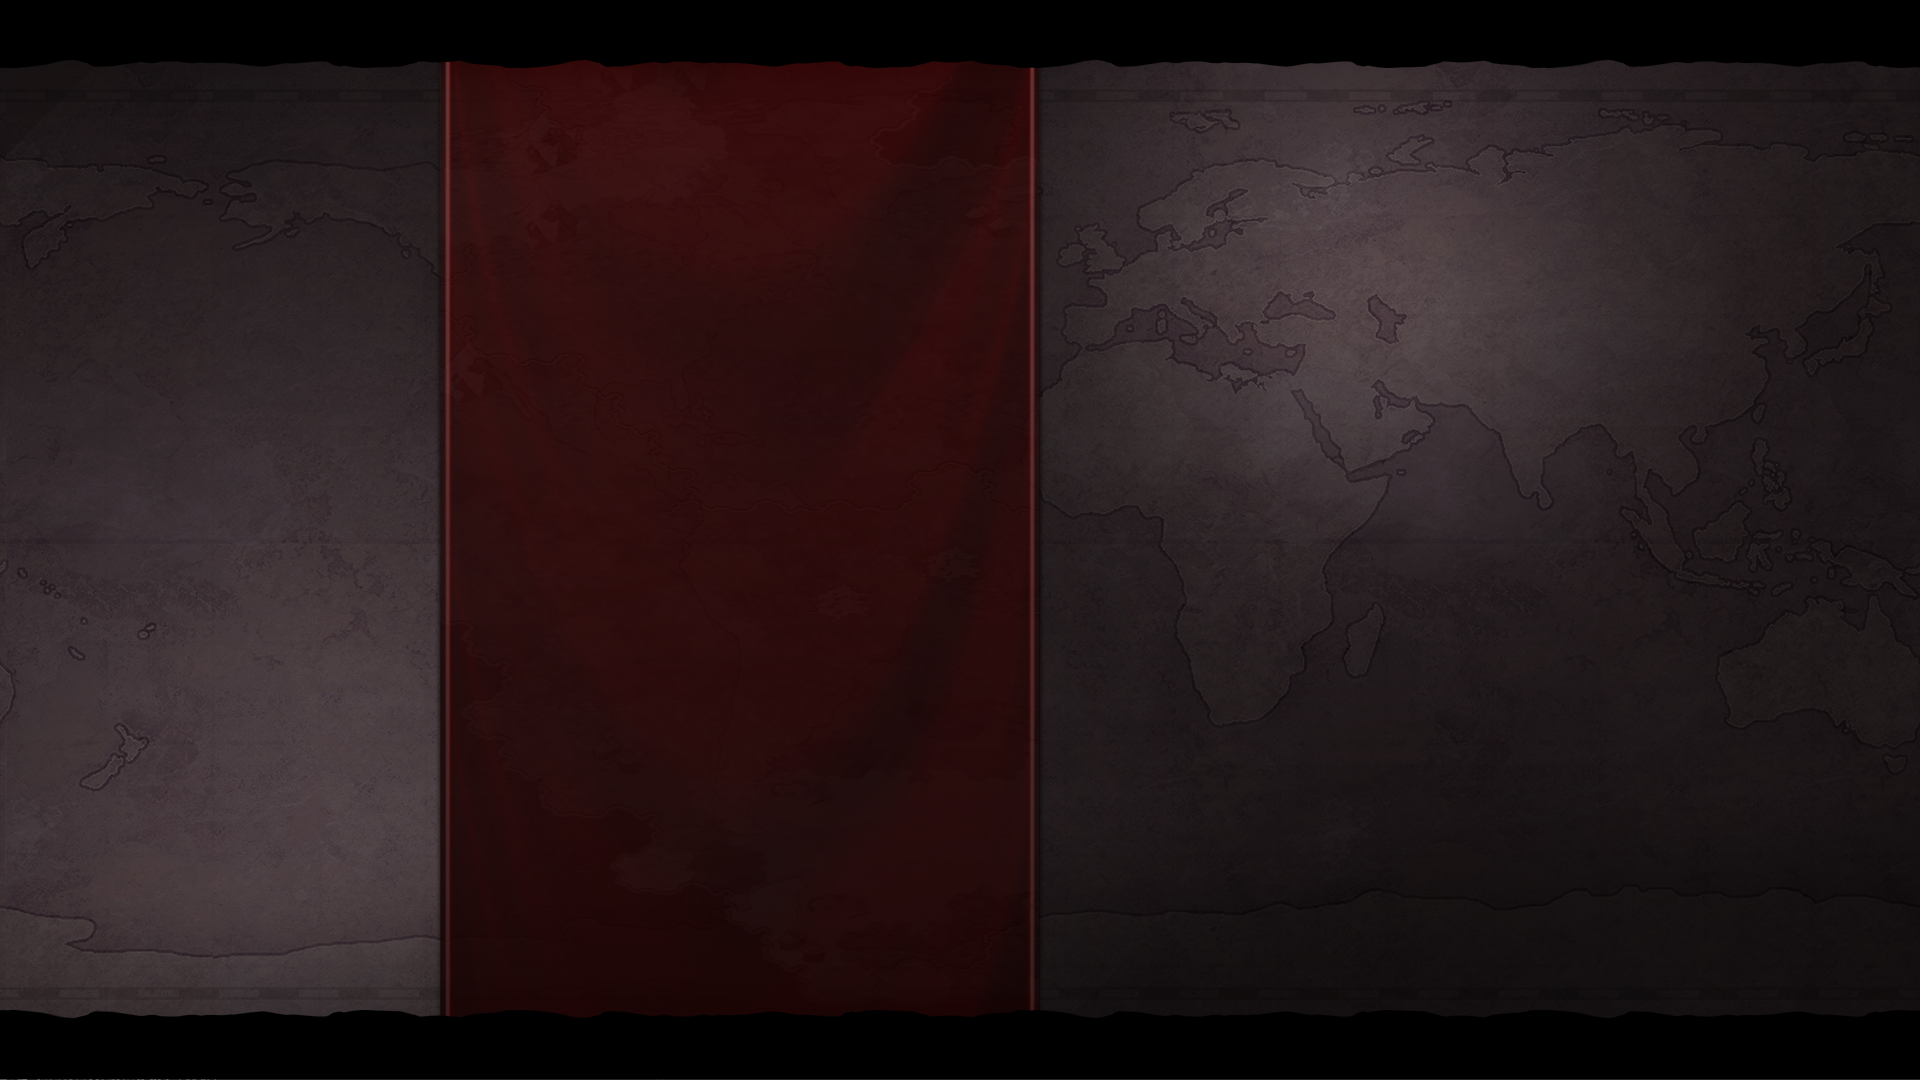
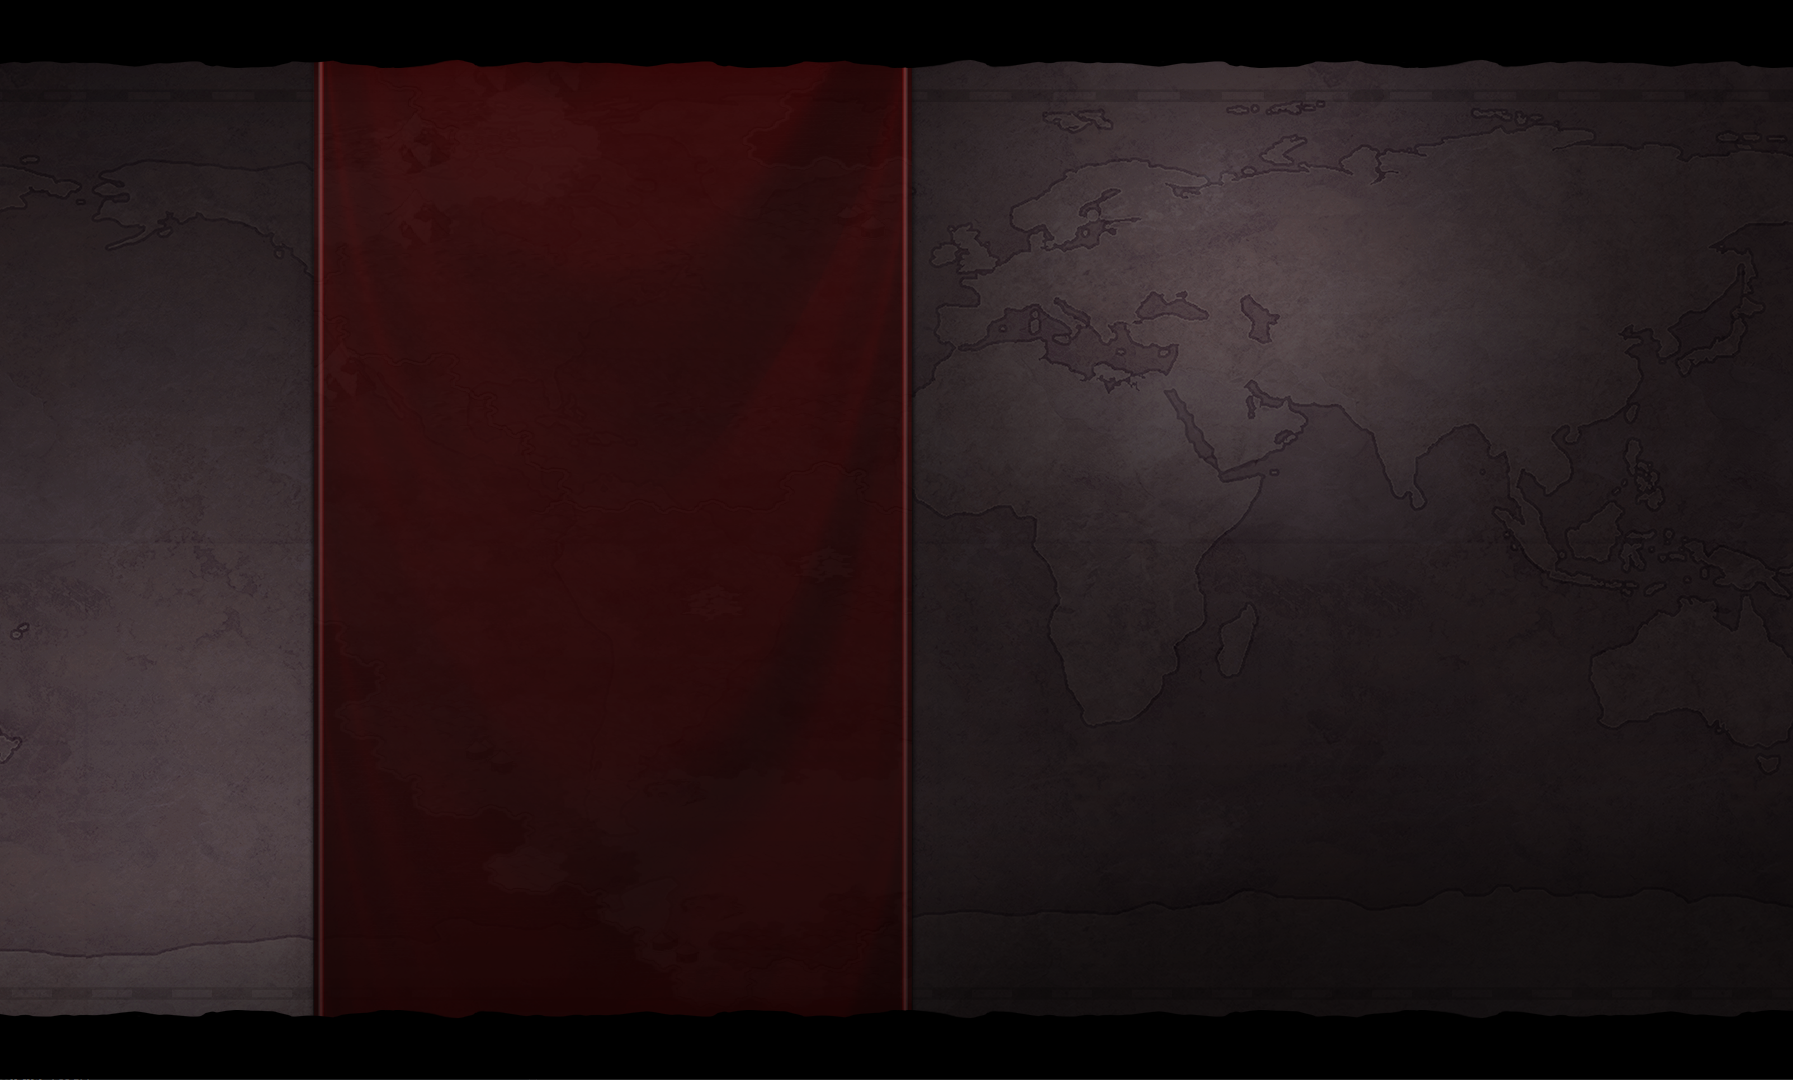
fixing backgrpunds and setting map in full screen

diff --git a/CivilizationGame/src/main/resources/sut/civilization/StyleSheet/ProfileMenu.css b/CivilizationGame/src/main/resources/sut/civilization/StyleSheet/ProfileMenu.css
@@ -1,8 +1,13 @@
 .root{
     -fx-background-repeat: no-repeat;
     -fx-background-position: center;
-    -fx-background-size: contain;
-    -fx-background-image: url("/sut/civilization/Images/BackGround/backGround1.png");
+    -fx-background-size: cover;
+    -fx-background-image: url("/sut/civilization/Images/BackGround/backGround6.jpg");
+}
+
+Label {
+    -fx-font-family: "Segoe Print";
+    -fx-font-size: 13;
 }
 
 Button:hover{
@@ -23,8 +28,16 @@ Button {
     -fx-background-color: transparent;
     -fx-cursor: hand;
     -fx-border-color: #0033ff;
-    -fx-text-fill: rgb(0, 22, 42);
+    -fx-text-fill: #0033ff;
     -fx-font-size: 20;
+}
+
+#backButton:hover{
+    -fx-background-color: #00504d;
+    -fx-cursor: hand;
+    -fx-border-color: #ffffff;
+    -fx-text-fill: rgb(255, 255, 255);
+    -fx-font-size: 10;
 }
 
 #backButton{
@@ -34,7 +47,7 @@ Button {
     -fx-background-color: transparent;
     -fx-cursor: hand;
     -fx-border-color: aqua;
-    -fx-text-fill: rgb(0, 22, 42);
+    -fx-text-fill: aqua;
     -fx-font-size: 10;
 }
 
@@ -46,15 +59,18 @@ Button {
     -fx-background-color: transparent;
     -fx-padding: 0px 0px 8px 10px;
     -fx-font-size: 13;
+    -fx-cursor: hand;
 
 }
 
 #informationBox{
-    -fx-border-color: black;
+    -fx-background-radius: 10;
+    -fx-background-color: rgba(255, 255, 255, 0.3);
+    -fx-border-color: #310000;
     -fx-border-radius: 10;
     -fx-text-fill: #310000;
     -fx-max-height: 400;
-
+    -fx-font-size: 30;
 }
 
 PasswordField{
@@ -81,24 +97,23 @@ TextField{
     -fx-border-color: transparent;
     -fx-font-weight: bold;
 }
-.tab{
-    -fx-cursor: hand;
 
-}
 .tab-pane *.tab-header-area *.tab-header-background {
-    -fx-background-color:transparent;
+    -fx-background-radius: 30;
+    -fx-background-color: rgba(255, 255, 255, 0.3);
     -fx-alignment: center;
 }
 
-
-Label {
-    -fx-font-family: "Segoe Print";
-    -fx-font-size: 13;
-}
-
 #title{
+    -fx-background-radius: 20;
+    -fx-border-radius: 20;
+    -fx-min-width: 200;
+    -fx-border-color: black;
+    -fx-background-color: rgba(255, 255, 255, 0.3);
     -fx-font-weight: bolder;
-    -fx-font-size: 20;
+    -fx-alignment: center;
+    -fx-text-fill: black;
+    -fx-font-size: 40;
 }
 
 ImageView{
@@ -108,4 +123,18 @@ ImageView{
 
 .informationText {
     -fx-font-weight: bold;
+    -fx-font-size: 20;
+}
+
+.ScrollPane .viewport {
+    -fx-background-color: transparent;
+}
+
+.ScrollPane{
+    -fx-background-color: transparent;
+}
+
+.Hbox{
+
+    -fx-alignment: center;
 }

diff --git a/CivilizationGame/src/main/resources/sut/civilization/StyleSheet/MainMenu.css b/CivilizationGame/src/main/resources/sut/civilization/StyleSheet/MainMenu.css
@@ -1,8 +1,8 @@
 .root{
     -fx-background-repeat: no-repeat;
     -fx-background-position: center;
-    -fx-background-size: contain;
-    -fx-background-image: url("/sut/civilization/Images/BackGround/backGround1.png");
+    -fx-background-size: cover;
+    -fx-background-image: url("/sut/civilization/Images/BackGround/backGround4.png");
 }
 
 Button:hover{
@@ -18,7 +18,8 @@ Button {
     -fx-pref-width: 200;
     -fx-pref-height: 30;
     -fx-border-radius: 10;
-    -fx-background-color: none;
+    -fx-background-radius: 10;
+    -fx-background-color: rgba(255, 154, 154, 0.08);
     -fx-font-family: "Comic Sans MS";
     -fx-cursor: hand;
     -fx-border-color: darkred;

diff --git a/CivilizationGame/src/main/resources/sut/civilization/StyleSheet/ScoreBoard.css b/CivilizationGame/src/main/resources/sut/civilization/StyleSheet/ScoreBoard.css
@@ -1,8 +1,8 @@
 .root{
     -fx-background-repeat: no-repeat;
-    -fx-background-position: center;
-    -fx-background-size: contain;
-    -fx-background-image: url("/sut/civilization/Images/BackGround/backGround1.png");
+    -fx-background-position: top;
+    -fx-background-size: cover;
+    -fx-background-image: url("/sut/civilization/Images/BackGround/background5.jpg");
 }
 
 .numberIndicator{
@@ -18,6 +18,8 @@ Label {
 }
 
 .informationContainer{
+    -fx-background-radius: 20;
+    -fx-background-color: rgba(255, 255, 255, 0.5);
     -fx-border-color: black;
     -fx-min-height: 60;
     -fx-border-radius: 20;

diff --git a/CivilizationGame/src/main/resources/sut/civilization/StyleSheet/ChatMenu.css b/CivilizationGame/src/main/resources/sut/civilization/StyleSheet/ChatMenu.css
@@ -1,9 +1,3 @@
-.root{
-    -fx-background-repeat: no-repeat;
-    -fx-background-position: center;
-    -fx-background-size: contain;
-    -fx-background-image: url("/sut/civilization/Images/BackGround/backGround1.png");
-}
 
 Button {
     -fx-background-color: white;

diff --git a/CivilizationGame/src/main/resources/sut/civilization/StyleSheet/LoginMenu.css b/CivilizationGame/src/main/resources/sut/civilization/StyleSheet/LoginMenu.css
@@ -1,7 +1,7 @@
 .root{
     -fx-background-repeat: no-repeat;
     -fx-background-position: center;
-    -fx-background-size: contain;
+    -fx-background-size: auto;
     -fx-background-image: url("/sut/civilization/Images/BackGround/civ_background.png");
 }
 

diff --git a/CivilizationGame/src/main/java/sut/civilization/View/Graphical/ProfileController.java b/CivilizationGame/src/main/java/sut/civilization/View/Graphical/ProfileController.java
@@ -1,12 +1,16 @@
 package sut.civilization.View.Graphical;
 
 import javafx.fxml.FXML;
+import javafx.geometry.Pos;
 import javafx.scene.control.Label;
 import javafx.scene.control.PasswordField;
+import javafx.scene.control.ScrollPane;
 import javafx.scene.control.TextField;
 import javafx.scene.image.Image;
 import javafx.scene.image.ImageView;
 import javafx.scene.input.MouseEvent;
+import javafx.scene.layout.Background;
+import javafx.scene.layout.BorderPane;
 import javafx.scene.layout.HBox;
 import javafx.stage.FileChooser;
 import javafx.stage.Window;
@@ -26,7 +30,7 @@ import java.util.Objects;
 
 public class ProfileController extends ViewController{
 
-    public HBox allAvatarsContainer;
+    public ScrollPane avatarsScrollPane;
     @FXML
     private ImageView avatarImageView;
     @FXML
@@ -49,8 +53,11 @@ public class ProfileController extends ViewController{
     private TextField newNicknameRepeated;
 
     private final sut.civilization.Controller.ProfileController profileController = new sut.civilization.Controller.ProfileController();
-
     public void initialize(){
+        HBox allAvatarsContainer = new HBox();
+        allAvatarsContainer.setSpacing(10);
+        allAvatarsContainer.setAlignment(Pos.CENTER);
+
         avatarImageView.setImage(new Image(Game.getLoggedInUser().getAvatarLocation()));
         userNameText.setText("UserName : " + Game.getLoggedInUser().getUsername());
         nickNameText.setText("NickName : " + Game.getLoggedInUser().getNickname());
@@ -63,8 +70,10 @@ public class ProfileController extends ViewController{
             imageView.setFitHeight(130);
             imageView.setOnMouseClicked(this::changeAvatar);
             allAvatarsContainer.getChildren().add(imageView);
-
         }
+        avatarsScrollPane.setBackground(Background.EMPTY);
+        allAvatarsContainer.getStyleClass().add("Hbox");
+        avatarsScrollPane.setContent(allAvatarsContainer);
     }
 
     public void changeUserPassword(MouseEvent mouseEvent) {

diff --git a/CivilizationGame/src/main/java/sut/civilization/View/Graphical/GameMenuController.java b/CivilizationGame/src/main/java/sut/civilization/View/Graphical/GameMenuController.java
@@ -5,6 +5,7 @@ import javafx.fxml.FXML;
 import javafx.scene.control.ScrollPane;
 import javafx.scene.layout.AnchorPane;
 import javafx.scene.layout.Pane;
+import javafx.stage.Stage;
 import sut.civilization.Civilization;
 import sut.civilization.Controller.GameControllers.LandController;
 import sut.civilization.Model.Classes.Game;
@@ -18,10 +19,8 @@ public class GameMenuController extends ViewController{
     private ScrollPane root;
 
     public void initialize(){
-        Game.getCurrentScene().getWindow().setHeight(800);
-        Game.getCurrentScene().getWindow().setWidth(1500);
-        Game.getCurrentScene().getWindow().setX(10);
-        Game.getCurrentScene().getWindow().setY(10);
+        ((Stage) Game.getCurrentScene().getWindow()).setFullScreen(true);
+
         Pane pane = new Pane();
         for (int i = 0; i < 15; i++) {
             for (int j = 0; j < 10; j++) {
@@ -29,6 +28,8 @@ public class GameMenuController extends ViewController{
                 pane.getChildren().add(landGraphical);
             }
         }
+        root.setMaxHeight(Game.getCurrentScene().getWindow().getHeight());
+        root.setMaxWidth(Game.getCurrentScene().getWindow().getWidth());
         root.setContent(pane);
     }
 }

diff --git a/CivilizationGame/src/main/java/sut/civilization/Civilization.java b/CivilizationGame/src/main/java/sut/civilization/Civilization.java
@@ -2,17 +2,20 @@ package sut.civilization;
 
 import javafx.application.Application;
 import javafx.scene.Scene;
+import javafx.scene.image.Image;
 import javafx.scene.shape.Polygon;
 import javafx.stage.Stage;
 import sut.civilization.Enums.Menus;
 import sut.civilization.Model.Classes.Game;
+
+import java.util.Objects;
 
 public class Civilization extends Application {
 
     @Override
     public void start(Stage stage) throws Exception {
         Game.setCurrentScene(new Scene(Game.loadScene(Menus.LOGIN_MENU)));
-        stage.setResizable(false);
+        stage.getIcons().add(new Image(Objects.requireNonNull(getClass().getResource("Images/Icons/programIcon.png")).toExternalForm()));
         stage.setScene(Game.getCurrentScene());
         stage.setTitle("Civilization V");
         stage.show();

diff --git a/CivilizationGame/src/main/java/module-info.java b/CivilizationGame/src/main/java/module-info.java
@@ -28,6 +28,8 @@ module sut.civilization {
     opens sut.civilization.Images;
 
     opens sut.civilization.Images.Avatars;
+    opens sut.civilization.Images.BackGround;
+    opens sut.civilization.Images.Icons;
 
     opens sut.civilization;
     exports sut.civilization;
